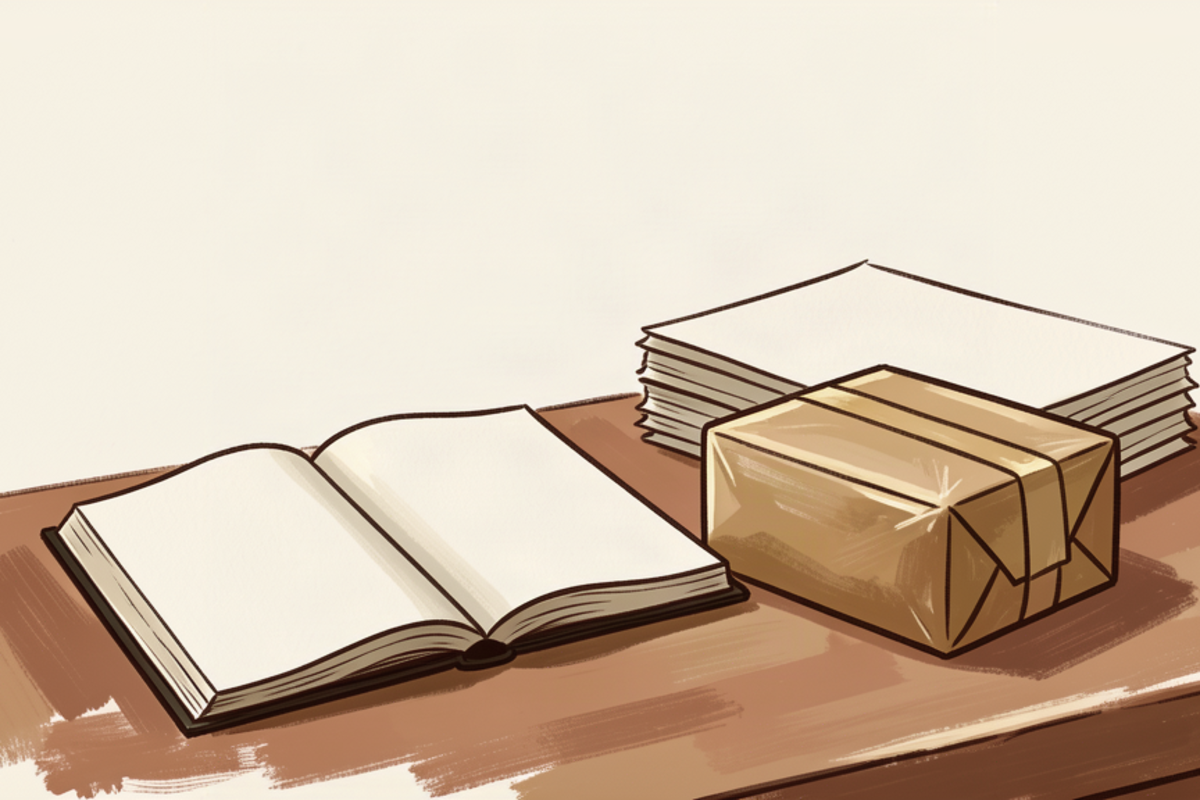
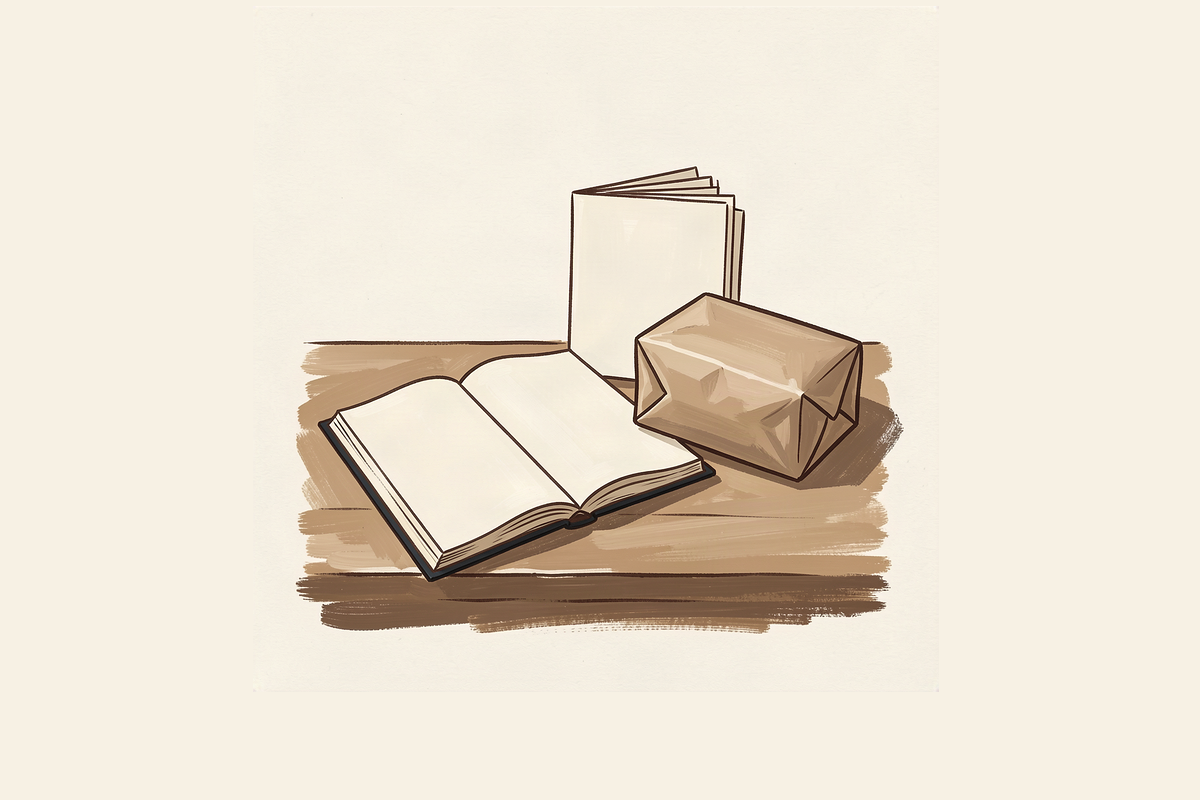
CP-012: regenerate the three covers on GM §0 pigments and a crop-safe plate
Round-2 art. Each plate is now a square painting fitted so its measured ink
box sits inside the mechanical 640x800 4:5 window with 16 px of paper to
spare, on a 1200x800 sheet of the contract paper. The parent cloth is field
green \#2f6047; the plum pigment and the muted sage are gone from the art.

diff --git a/scripts/cp012-cover-prep.py b/scripts/cp012-cover-prep.py
@@ -1,26 +1,34 @@
 #!/usr/bin/env python3
-"""CP-012 cover prep: one paper, one temper, one crop, three deliverable files.
+"""CP-012 cover prep: one paper, one temper, one placement, one crop.
 
 Deterministic, no model call. Usage:
 
-  python3 scripts/cp012-cover-prep.py <raw.png> <out-dir> <slug> [--master-only]
+  python3 scripts/cp012-cover-prep.py <raw.png> <out-dir> <slug>
 
 What it does, in order, and why each step is here:
 
-1. **Paper match.** The provider returns a different off-white on every call
-   (#f8f7f0, #fbf6e6, #f8f7ea across the three A3 raws). The kit rule is one
-   paper, so the measured corner colour is scaled channel-by-channel onto the
-   contract's `card-stock` paper `#f7f1e4`. Gains are clamped to [0.90, 1.10];
-   a file that needs more than that is a different paper and is regenerated,
-   not stretched.
-2. **One temper.** A single global `-modulate 97,86,100` pulls the raw's
+1. **Paper match.** The provider returns a different off-white on every call.
+   The kit rule is one paper, so the measured edge colour is scaled
+   channel-by-channel onto the contract's `card-stock` paper `#f7f1e4`. Gains
+   are clamped to [0.90, 1.10]; a file that needs more than that is a
+   different paper and is regenerated, not stretched.
+2. **One temper.** A single global `-modulate 97,78,100` pulls the raw's
    saturation into the muted gouache family the A1 fox set was tempered into
-   (`docs/concept-parity/ART-BIBLE.md` §2, "Measured pigments"). One value for
-   every cover, so no cover can drift in saturation alone.
-3. **One crop.** The 16:9 raw is centre-cropped to 864x576 (3:2), then resized
-   to the 1200x800 master with Lanczos at 1.389x — inside the 1.5x ceiling the
-   art direction sets. The 4:5 file is a 640x800 centre crop of the shipped
-   master with no resampling, so it cannot be a second drawing.
+   (`docs/concept-parity/ART-BIBLE.md` §2). One value for every cover, so no
+   cover can drift in saturation alone.
+3. **One placement.** The raw is a square plate. The plate is scaled so its
+   *painted ink bounding box* fits inside the 4:5 safe window (the 640x800
+   centre crop, less a 16 px margin) and centred on the 1200x800 master's own
+   paper field. This is what makes the *mechanical* 4:5 crop keep every
+   subject: no painted mark can fall outside the crop window, so no motif is
+   severed at the crop edge. Round 1 shipped the full 16:9 raw as the master
+   and the 4:5 crop severed the Japanese lantern (18 % of its ink survived)
+   and most of the parent oranges; the reviewer's test is now satisfied by
+   construction and re-checked from the shipped bytes.
+   Placement is not a second drawing: it is the same single plate, paper-
+   matched, scaled once and set on the kit's paper.
+4. **One crop.** The 4:5 file is a 640x800 centre crop of the shipped master
+   with no resampling, so it cannot be a second drawing.
 
 Output files in <out-dir>:
 
@@ -31,6 +39,7 @@ Output files in <out-dir>:
 
 from __future__ import annotations
 
+import re
 import subprocess
 import sys
 import tempfile
@@ -38,7 +47,8 @@ from pathlib import Path
 
 MASTER_W, MASTER_H = 1200, 800
 CROP_W, CROP_H = 640, 800
-RAW_CROP_W = 864
+CROP_X = (MASTER_W - CROP_W) // 2  # 280
+SAFE_MARGIN = 16                   # px of paper kept inside the crop window
 TEMPER = "97,78,100"
 PAPER = (247, 241, 228)  # #f7f1e4, contract role `card-stock`
 
@@ -59,6 +69,16 @@ def corner_rgb(path: str) -> tuple[int, int, int]:
     return r, g, b
 
 
+def ink_bbox(path: str) -> tuple[int, int, int, int]:
+    """Bounding box of non-paper pixels, trimmed against the paper fill colour."""
+    out = magick(path, "-fuzz", "22%", "-format", "%@", "info:")
+    m = re.fullmatch(r"(\d+)x(\d+)([+-]\d+)([+-]\d+)", out)
+    if not m:
+        raise SystemExit(f"{path}: unexpected trim box {out!r}")
+    w, h, x, y = (int(v) for v in m.groups())
+    return x, y, x + w, y + h
+
+
 def main(argv: list[str]) -> int:
     if len(argv) < 4:
         print(__doc__)
@@ -67,11 +87,11 @@ def main(argv: list[str]) -> int:
     out_dir.mkdir(parents=True, exist_ok=True)
 
     w, h = (int(v) for v in magick(raw, "-format", "%w %h", "info:").split())
-    if (w, h) != (1024, 576):
-        raise SystemExit(f"{raw}: expected a 1024x576 16:9 raw, measured {w}x{h}")
+    if w != h or w < 768:
+        raise SystemExit(f"{raw}: expected a square raw of at least 768 px, measured {w}x{h}")
 
     tmp = Path(tempfile.mkdtemp(prefix="cp012-cover-")) / "tempered.png"
-    # Temper first, paper-match second: the match must land the corner on the
+    # Temper first, paper-match second: the match must land the paper on the
     # contract value, and a gain applied before the temper cannot promise that.
     magick(raw, "-modulate", TEMPER, str(tmp))
     measured = corner_rgb(str(tmp))
@@ -88,17 +108,41 @@ def main(argv: list[str]) -> int:
            "-channel", "B", "-evaluate", "multiply", f"{gains[2]:.4f}", "+channel",
            str(matched))
 
+    bx0, by0, bx1, by1 = ink_bbox(str(matched))
+    bw, bh = bx1 - bx0, by1 - by0
+    if bw <= 0 or bh <= 0:
+        raise SystemExit(f"{raw}: no painted ink found; the plate is blank")
+    safe_w = CROP_W - 2 * SAFE_MARGIN          # 608
+    # Only the horizontal fit matters: the 4:5 crop keeps the full master
+    # height, so vertical bleed is a plate edge, never a crop loss.
+    scale = min(MASTER_H / w, safe_w / bw)
+    plate_px = round(scale * w)
+    plate = Path(tempfile.mkdtemp(prefix="cp012-cover-")) / "plate.png"
+    magick(str(matched), "-filter", "Lanczos", "-resize", f"{plate_px}x{plate_px}",
+           "-unsharp", "0x0.6+0.5+0.02", str(plate))
+    print(f"ink bbox {bw}x{bh} of {w} raw -> scale {scale:.4f}, plate {plate_px}px")
+
+    # Centre the ink bbox inside the crop window, then keep the plate itself
+    # on the canvas (a plate wider than the canvas is cropped by the master).
+    bx_c, by_c = (bx0 + bx1) / 2 * scale, (by0 + by1) / 2 * scale
+    off_x = round(CROP_X + CROP_W / 2 - bx_c)
+    off_y = round(MASTER_H / 2 - by_c)
+    if plate_px <= MASTER_W:
+        off_x = min(max(off_x, 0), MASTER_W - plate_px)
+    if plate_px <= MASTER_H:
+        off_y = min(max(off_y, 0), MASTER_H - plate_px)
+
     master = out_dir / f"{slug}-master-{MASTER_W}x{MASTER_H}.png"
-    magick(str(matched), "-gravity", "center", "-crop", f"{RAW_CROP_W}x{h}+0+0", "+repage",
-           "-resize", f"{MASTER_W}x{MASTER_H}!", "-strip", "-define", "png:color-type=2",
-           str(master))
+    magick("-size", f"{MASTER_W}x{MASTER_H}", f"xc:#{PAPER[0]:02x}{PAPER[1]:02x}{PAPER[2]:02x}",
+           str(plate), "-geometry", f"+{off_x}+{off_y}", "-composite",
+           "-strip", "-define", "png:color-type=2", str(master))
 
     crop32 = out_dir / f"{slug}-crop-3x2-{MASTER_W}x{MASTER_H}.png"
     magick(str(master), "-strip", str(crop32))
 
     crop45 = out_dir / f"{slug}-crop-4x5-{CROP_W}x{CROP_H}.png"
-    magick(str(master), "-gravity", "center", "-crop", f"{CROP_W}x{CROP_H}+0+0", "+repage",
-           "-strip", str(crop45))
+    magick(str(master), "-crop", f"{CROP_W}x{CROP_H}+{CROP_X}+0",
+           "+repage", "-strip", str(crop45))
 
     print(f"paper after: {corner_rgb(str(master))}")
     for p in (master, crop32, crop45):
